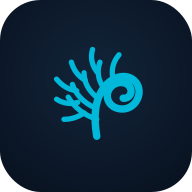
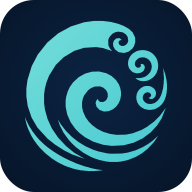
feat: improve symbol

diff --git a/index.html b/index.html
@@ -19,13 +19,7 @@
 
     <!-- Intro Screen · RiverWatch v1.0 / RV Koru -->
     <section id="intro" class="screen intro-screen koru-intro">
-        <div class="koru-mark" aria-label="Koru fern symbol">
-            <svg viewBox="0 0 120 120" role="img" aria-hidden="true">
-                <path class="koru-stem" d="M61 104 C58 86 59 71 67 59 C76 46 91 44 98 53 C105 62 99 76 88 78 C76 80 68 70 72 61 C76 52 88 51 92 57 C96 63 91 69 86 68"/>
-                <path class="koru-leaf" d="M61 88 C49 84 40 77 34 67 M59 77 C48 72 41 64 38 55 M62 68 C53 61 49 53 49 44 M68 59 C62 51 61 42 64 34 M77 52 C74 43 76 34 82 27"/>
-                <path class="koru-leaf" d="M49 82 C43 86 37 88 30 88 M43 72 C36 74 29 73 23 69 M42 61 C34 60 28 56 23 50 M50 51 C43 47 39 41 37 34 M61 43 C56 36 55 29 57 22"/>
-            </svg>
-        </div>
+        <div class="koru-mark" aria-label="Koru fern symbol"><img src="icons/koru-mark.svg" alt="" aria-hidden="true"></div>
 
         <div class="vessel-name">RV Koru</div>
         <div class="brand">RiverWatch <span class="brand-version">v1.0</span></div>
@@ -58,13 +52,7 @@
 
         <header class="topbar">
             <div class="brand-wrap koru-header-wrap">
-                <div class="koru-mark koru-mark-small" aria-label="Koru fern symbol">
-                    <svg viewBox="0 0 120 120" role="img" aria-hidden="true">
-                        <path class="koru-stem" d="M61 104 C58 86 59 71 67 59 C76 46 91 44 98 53 C105 62 99 76 88 78 C76 80 68 70 72 61 C76 52 88 51 92 57 C96 63 91 69 86 68"/>
-                        <path class="koru-leaf" d="M61 88 C49 84 40 77 34 67 M59 77 C48 72 41 64 38 55 M62 68 C53 61 49 53 49 44 M68 59 C62 51 61 42 64 34 M77 52 C74 43 76 34 82 27"/>
-                        <path class="koru-leaf" d="M49 82 C43 86 37 88 30 88 M43 72 C36 74 29 73 23 69 M42 61 C34 60 28 56 23 50 M50 51 C43 47 39 41 37 34 M61 43 C56 36 55 29 57 22"/>
-                    </svg>
-                </div>
+                <div class="koru-mark koru-mark-small" aria-label="Koru fern symbol"><img src="icons/koru-mark.svg" alt="" aria-hidden="true"></div>
                 <div>
                     <div class="vessel-name-small">RV Koru</div>
                     <div class="brand-small">RiverWatch</div>
@@ -145,17 +133,17 @@
 
                 <div class="health-matrix-summary" id="healthMatrixSummary">
                     <div class="health-summary-row">
-                        <span class="health-summary-name"><span class="health-icon">🧭</span> Voyage Health</span>
+                        <span class="health-summary-name"><span class="health-icon"><img src="icons/voyage-health.svg" alt="" aria-hidden="true"></span> Voyage Health</span>
                         <span class="health-summary-score" id="summaryVoyageHealth">--</span>
                         <span class="health-summary-status" id="summaryVoyageStatus">--</span>
                     </div>
                     <div class="health-summary-row">
-                        <span class="health-summary-name"><span class="health-icon">🌊</span> River Health</span>
+                        <span class="health-summary-name"><span class="health-icon"><img src="icons/river-health.svg" alt="" aria-hidden="true"></span> River Health</span>
                         <span class="health-summary-score" id="summaryRiverHealth">--</span>
                         <span class="health-summary-status" id="summaryRiverStatus">--</span>
                     </div>
                     <div class="health-summary-row">
-                        <span class="health-summary-name"><span class="health-icon">⛵</span> Boat Health</span>
+                        <span class="health-summary-name"><span class="health-icon"><img src="icons/boat-health.svg" alt="" aria-hidden="true"></span> Boat Health</span>
                         <span class="health-summary-score" id="summaryBoatHealth">--</span>
                         <span class="health-summary-status" id="summaryBoatStatus">--</span>
                     </div>
@@ -163,7 +151,7 @@
 
                 <div class="health-matrix-detail" id="healthMatrixDetail" hidden>
                     <section class="health-card voyage-card" data-health-detail="voyage">
-                        <div class="label"><span class="health-icon">🧭</span> Voyage Health</div>
+                        <div class="label"><span class="health-icon"><img src="icons/voyage-health.svg" alt="" aria-hidden="true"></span> Voyage Health</div>
                         <div class="health-value"><span id="voyageHealth">--</span></div>
                         <div class="status-sub" id="voyageStatus">--</div>
 
@@ -180,14 +168,14 @@
                     </section>
 
                     <section class="health-card" data-health-detail="river">
-                        <div class="label"><span class="health-icon">🌊</span> River Health</div>
+                        <div class="label"><span class="health-icon"><img src="icons/river-health.svg" alt="" aria-hidden="true"></span> River Health</div>
                         <div class="health-value"><span id="riverHealth">--</span></div>
                         <div class="status-sub" id="riverStatus">--</div>
                         <div class="metric-list" id="riverMetricList"></div>
                     </section>
 
                     <section class="health-card" data-health-detail="boat">
-                        <div class="label"><span class="health-icon">⛵</span> Boat Health</div>
+                        <div class="label"><span class="health-icon"><img src="icons/boat-health.svg" alt="" aria-hidden="true"></span> Boat Health</div>
                         <div class="health-value"><span id="boatHealth">--</span></div>
                         <div class="status-sub" id="boatStatus">--</div>
                         <div class="metric-list boat-health-list">

diff --git a/js/app.js b/js/app.js
@@ -1204,7 +1204,7 @@ function renderRiverHealth() {
     const scores = riverwatch.calc.riverMetricScores || {};
     const config = riverwatch.manualConfig || {};
     const metrics = [
-        ["USDKRW", `${formatInteger(riverwatch.auto.usdkrw)} (${scoreText(scores.usdkrw)})`],
+        ["USDKRW", `${formatFixedNumber(riverwatch.auto.usdkrw, 2)} (${scoreText(scores.usdkrw)})`],
         ["VIX", `${formatInteger(riverwatch.auto.vix)} (${scoreText(scores.vix)})`],
         ["Brent", `${formatBrentPrice(riverwatch.calc.brentPrice, config.BrentPriceAsOf ?? config.brentPriceAsOf)} (${scoreText(scores.oil)})`],
         ["Fed Policy", `${String(config.fedRateState || "-").toUpperCase()} (${scoreText(scores.fedRate)})`],
@@ -1250,7 +1250,7 @@ function renderAllocation() {
             <span>${formatTicker(label)}</span>
             <span>${current.toFixed(1)}%</span>
             <span>${target.toFixed(1)}%</span>
-            <span>${formatSigned(delta)}%</span>
+            <span>${formatSignedFixed(delta, 1, true)}%</span>
             <span class="badge ${status.className}">${status.label}</span>
         `;
         list.appendChild(row);
@@ -1565,7 +1565,7 @@ function renderBoatyard() {
                     <div class="trim-summary-values" aria-label="Current Target Gap">
                         <span class="trim-summary-current">${current.toFixed(1)}%</span>
                         <span class="trim-summary-target">${limit.toFixed(1)}%</span>
-                        <span class="trim-summary-delta">${formatSigned(delta)}%</span>
+                        <span class="trim-summary-delta">${formatSignedFixed(delta, 1, true)}%</span>
                     </div>
                 `;
                 summary.appendChild(row);
@@ -1597,7 +1597,7 @@ function renderBoatyard() {
                             <div class="trim-stats trim-stats-diet" aria-label="Current Target Gap">
                                 <div><span>Current</span><b>${current.toFixed(1)}%</b></div>
                                 <div><span>Target</span><b>${limit.toFixed(1)}%</b></div>
-                                <div><span>Gap</span><b>${formatSigned(delta)}%</b></div>
+                                <div><span>Gap</span><b>${formatSignedFixed(delta, 1, true)}%</b></div>
                             </div>
                         </div>
                         <div class="trim-performance" aria-label="Investment performance">
@@ -1986,6 +1986,20 @@ function formatNumber(value, maximumFractionDigits = 2) {
         minimumFractionDigits: 0,
         maximumFractionDigits
     });
+}
+
+function formatFixedNumber(value, fractionDigits = 2) {
+    if (typeof value !== "number" || Number.isNaN(value)) return "-";
+    return value.toLocaleString("ko-KR", {
+        minimumFractionDigits: fractionDigits,
+        maximumFractionDigits: fractionDigits
+    });
+}
+
+function formatSignedFixed(value, digits = 1, showPlusForZero = false) {
+    if (typeof value !== "number" || Number.isNaN(value)) return "-";
+    const sign = value > 0 || (showPlusForZero && Object.is(value, 0)) ? "+" : "";
+    return sign + formatFixedNumber(value, digits);
 }
 
 function formatInteger(value) {

diff --git a/css/style.css b/css/style.css
@@ -4625,3 +4625,27 @@ body{
 @media(max-width:380px){
   .portfolio-summary-grid{grid-template-columns:25fr 25fr 23fr 27fr}
 }
+
+
+/* CAB-040 · Koru vector identity + mobile alignment polish */
+.koru-mark img{display:block;width:100%;height:100%;object-fit:contain}
+.health-icon{display:inline-flex!important;align-items:center;justify-content:center;width:24px;height:24px;margin-right:7px!important;vertical-align:middle}
+.health-icon img{display:block;width:100%;height:100%;object-fit:contain}
+.health-summary-score{min-width:3ch;text-align:right!important;font-variant-numeric:tabular-nums}
+
+/* Intro: use one optical center axis; only the label/value pairs remain two-column. */
+.koru-intro{box-sizing:border-box;align-items:center!important;text-align:center!important;padding-left:max(20px,env(safe-area-inset-left))!important;padding-right:max(20px,env(safe-area-inset-right))!important}
+.koru-intro>.koru-mark,.koru-intro>.vessel-name,.koru-intro>.brand,.koru-intro>.intro-rule,.koru-intro>.crew-block,.koru-intro>.mission-block,.koru-intro>.philosophy,.koru-intro>.enter-voyage{margin-left:auto!important;margin-right:auto!important}
+.koru-intro .crew-block,.koru-intro .mission-block{width:min(326px,88vw)!important;box-sizing:border-box}
+.koru-intro .crew-block>div,.koru-intro .mission-block>div{display:grid!important;grid-template-columns:minmax(0,1fr) minmax(124px,1fr)!important;column-gap:18px!important;align-items:center!important;text-align:left!important}
+.koru-intro .crew-block span,.koru-intro .mission-block span{text-align:left!important}
+.koru-intro .crew-block b,.koru-intro .mission-block b{text-align:left!important}
+.koru-intro .intro-rule{width:min(390px,92vw)!important}
+.koru-intro .philosophy{width:min(326px,88vw)!important;text-align:center!important}
+.koru-intro .enter-voyage{width:min(216px,72vw)!important}
+@media (max-width:430px){
+  .koru-intro{padding-left:18px!important;padding-right:18px!important}
+  .koru-intro .crew-block,.koru-intro .mission-block,.koru-intro .philosophy{width:min(324px,90vw)!important}
+  .koru-intro .crew-block>div,.koru-intro .mission-block>div{grid-template-columns:108px minmax(0,1fr)!important;column-gap:16px!important}
+  .koru-intro .intro-rule{width:min(354px,94vw)!important}
+}

diff --git a/service-worker.js b/service-worker.js
@@ -1,4 +1,4 @@
-const CACHE_NAME = "riverwatch-v1.0-pwa-cab039";
+const CACHE_NAME = "riverwatch-v1.0-pwa-cab041";
 const APP_SHELL = [
   "./",
   "./index.html",
@@ -9,7 +9,12 @@ const APP_SHELL = [
   "./manifest.webmanifest",
   "./icons/riverwatch-192.png",
   "./icons/riverwatch-512.png",
-  "./icons/riverwatch-maskable-512.png"
+  "./icons/riverwatch-maskable-512.png",
+  "./icons/riverwatch-icon.svg",
+  "./icons/koru-mark.svg",
+  "./icons/voyage-health.svg",
+  "./icons/river-health.svg",
+  "./icons/boat-health.svg"
 ];
 
 self.addEventListener("install", (event) => {

diff --git a/CAB-041_CHANGELOG.md b/CAB-041_CHANGELOG.md
@@ -1,0 +1,9 @@
+# CAB-041 CHANGELOG
+
+- Corrected Koru branding to the approved flat spiral-wave vector symbol matching the selected app-icon concept.
+- Replaced all intro/header Koru instances with the same `koru-mark.svg` asset.
+- Rebuilt PWA icons from the approved Koru symbol; main symbol occupies approximately 85% of the app-icon canvas.
+- USDKRW now always renders with thousands separators and exactly 2 decimal places (e.g. `1,418.80`).
+- Deck/Allocation GAP now always renders with exactly 1 decimal place, including zero (e.g. `+0.0%`).
+- Retained independent Voyage/River/Boat Health SVG icon set and Health score right-alignment.
+- Bumped service-worker cache key to CAB041 so updated assets are refreshed on deployed PWA clients.

diff --git a/CAB-040_CHANGELOG.md b/CAB-040_CHANGELOG.md
@@ -1,0 +1,9 @@
+# CAB-040 CHANGELOG
+
+- Replaced legacy fern Koru artwork with the new RiverWatch flow-Koru vector symbol.
+- Rebuilt PWA/app icons with the Koru mark occupying approximately 85% of the icon safe area.
+- Added independent SVG health icons: Voyage (compass), River (horizontal flow), Boat (sailboat/waves).
+- Updated USDKRW rendering to comma-separated fixed 2 decimals.
+- Updated Deck GAP rendering to fixed 1 decimal.
+- Right-aligned Health summary scores with tabular numeric spacing for 2- and 3-digit scores.
+- Re-centered the mobile intro screen around a single optical center axis while retaining two-column crew/mission rows.
